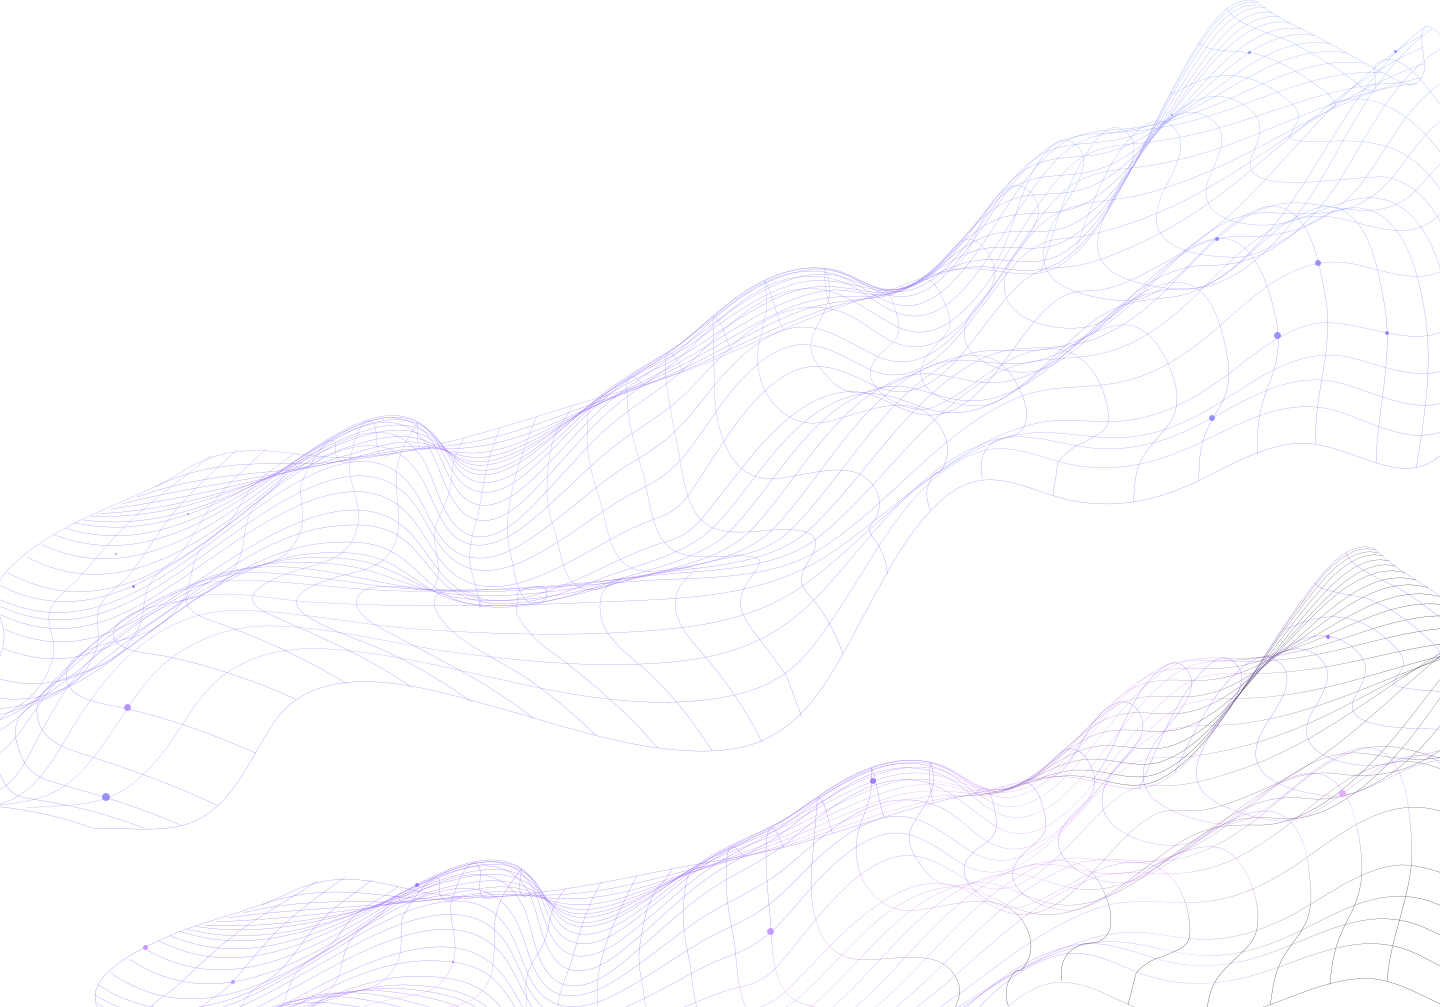
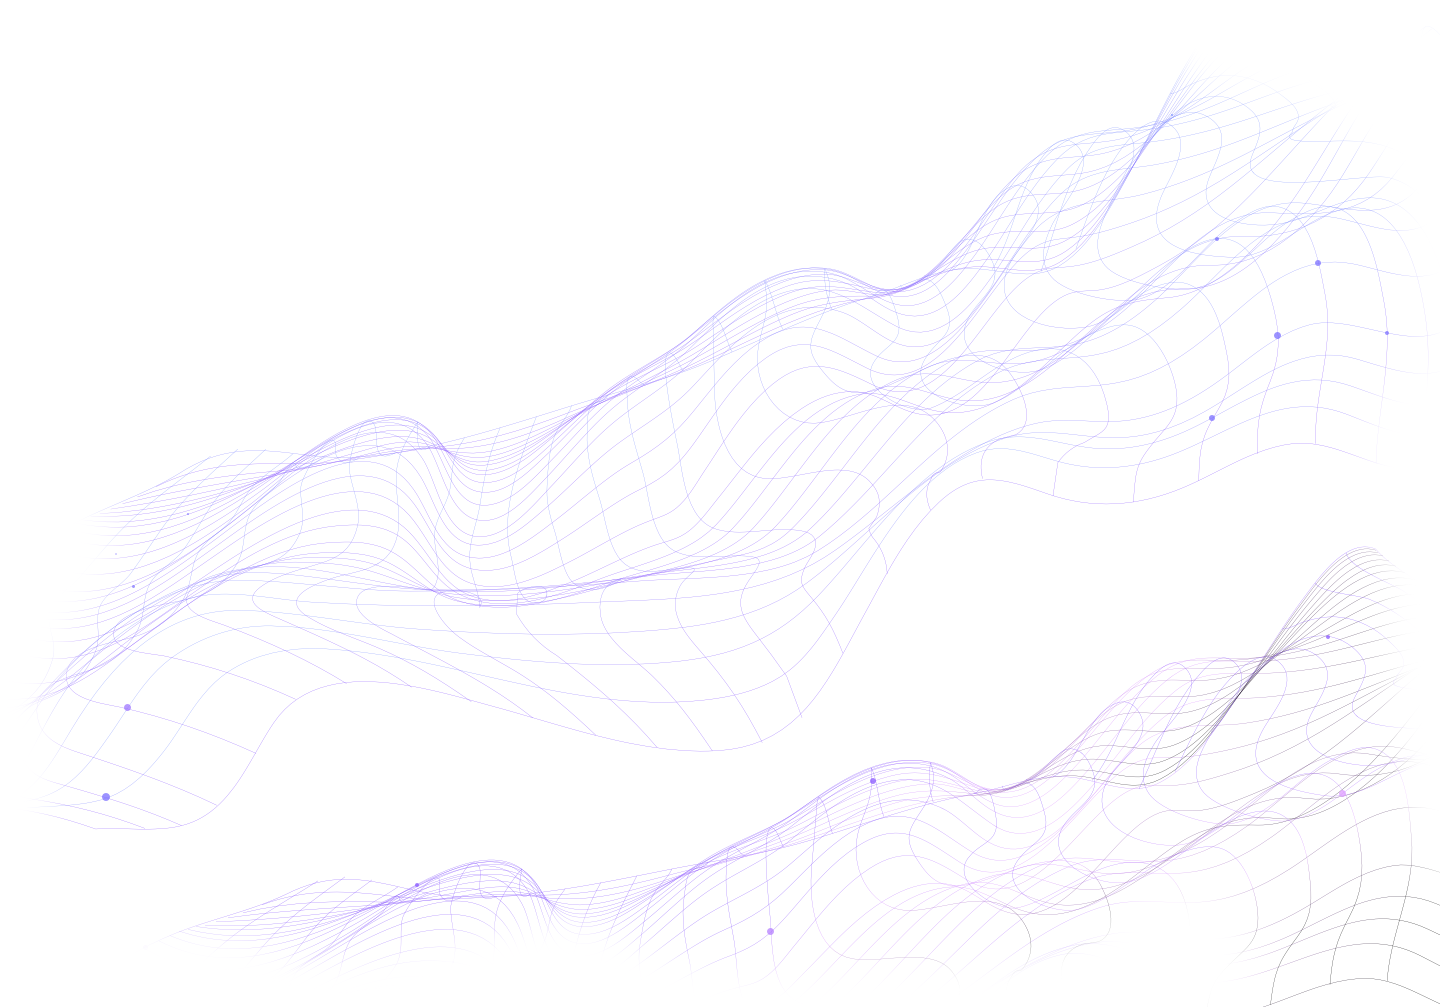
frontend fixes

diff --git a/src/css/styles.less b/src/css/styles.less
@@ -12,6 +12,10 @@
 @niceRed: #fd6060;
 @dashed-line-color: #5b50ba;
 
+body{
+  background-image: url(../img/backgr.jpg);
+}
+
 .admin {
   font-size: @fontSize;
   width: 100vw;
@@ -28,8 +32,8 @@
 .catalog {
   font-size: @fontSize;
   width: 100vw;
-  height: 100vh;
-  background-image: url(../img/backgr.jpg);
+  height: 100%;
+  
   .catalog-wrapper {
     width: 100%;
     height: 100%;
@@ -41,7 +45,7 @@
 
     .list {
       width: @pageWidth;
-      z-index: 5;
+      margin-bottom: @padding*5;
       .list-wrapper {
         width: 100%;
         background-color: @bg-col;
@@ -154,8 +158,7 @@
 .cabinet {
   font-size: @fontSize;
   width: 100vw;
-  height: 100vh;
-  background-image: url(../img/backgr.jpg);
+  height: 100%;
   .cabinet-wrapper {
     width: 100%;
     height: 100%;
@@ -167,7 +170,6 @@
 
     .page {
       width: @pageWidth;
-      z-index: 5;
       .page-wrapper {
         width: 100%;
         display: flex;
@@ -245,7 +247,7 @@
           margin-left: @padding;
           width: 70% - @padding*2;
           background-color: @bg-col;
-
+          margin-bottom: @padding*5;
           .list-wrapper {
             width: 100%;
             display: flex;
@@ -336,7 +338,7 @@
 }
 
 .bg {
-  background-size: cover;
+  background-size: 100%;
   background-image: url(../img/grid.png);
   background-repeat: no-repeat;
   width: 100%;
@@ -347,6 +349,7 @@
   bottom: 0;
   left: 0;
   background-color: transparent;
+  z-index:0;
 }
 
 
@@ -369,7 +372,6 @@
       justify-content: center;
       width: 40%;
       button{
-        z-index: 6;
         padding: @padding/2 @padding*2;
         font-weight: 700;
         background-color: @niceBlue;
@@ -387,12 +389,14 @@
 }
 
 
+@header-width: 96vw;
 header {
-  background-color: transparent;
-  width: 100vw;
+  background-color: rgba(0,0,0,.3);
+  width: @header-width;
+  margin: 0 (100-@header-width)/2;
   display: flex;
   justify-content: center;
-  z-index: 5;
+  z-index: 1;
   position: fixed;
   top: 0;
   left: 0;

diff --git a/public/index.html b/public/index.html
@@ -3,7 +3,7 @@
   <head>
     <meta charset="utf-8">
     <meta name="viewport" content="width=device-width, initial-scale=1">
-    <link rel="shortcut icon" href="%PUBLIC_URL%/favicon.ico">
+    <link rel="shortcut icon" href="%PUBLIC_URL%/favicon.png">
     <link rel="stylesheet" href="%PUBLIC_URL%/index.css">
     <!--
       Notice the use of %PUBLIC_URL% in the tag above.
@@ -17,6 +17,7 @@
     <title>DDRM</title>
   </head>
   <body>
+    <div class="bg"></div>
     <div id="root"></div>
     <!--
       This HTML file is a template.

diff --git a/src/layouts/Catalog/Catalog.js b/src/layouts/Catalog/Catalog.js
@@ -15,7 +15,7 @@ class CatalogContainer extends Component {
     return (
       <div className="catalog">
         <div className="catalog-wrapper">
-          <div className="bg" />
+          
           <div className="list">
             <div className="list-wrapper tile">
               <div className="el header">
@@ -37,6 +37,7 @@ class CatalogContainer extends Component {
                 </div>
               </div>
               <AssetsList />
+              
             </div>
           </div>
         </div>

diff --git a/src/layouts/Cabinet/Cabinet.js b/src/layouts/Cabinet/Cabinet.js
@@ -61,7 +61,7 @@ class Cabinet extends Component {
     return (
       <div className="cabinet">
         <div className="cabinet-wrapper">
-          <div className="bg"></div>
+          
           <div className="page">
             <div className="page-wrapper">
               <div className="sidebar">

diff --git a/public/index.css b/public/index.css
@@ -2,12 +2,14 @@ html,body{
     padding: 0!important;
     margin: 0!important;
     overflow-x: hidden;
-
+}
+html{
+    height: 100%;
 }
 
 body{
     background-image: url(../img/backgr.png);
-    height: 100vh;
+    height: 100%;
     width: 100%;
 }
 
